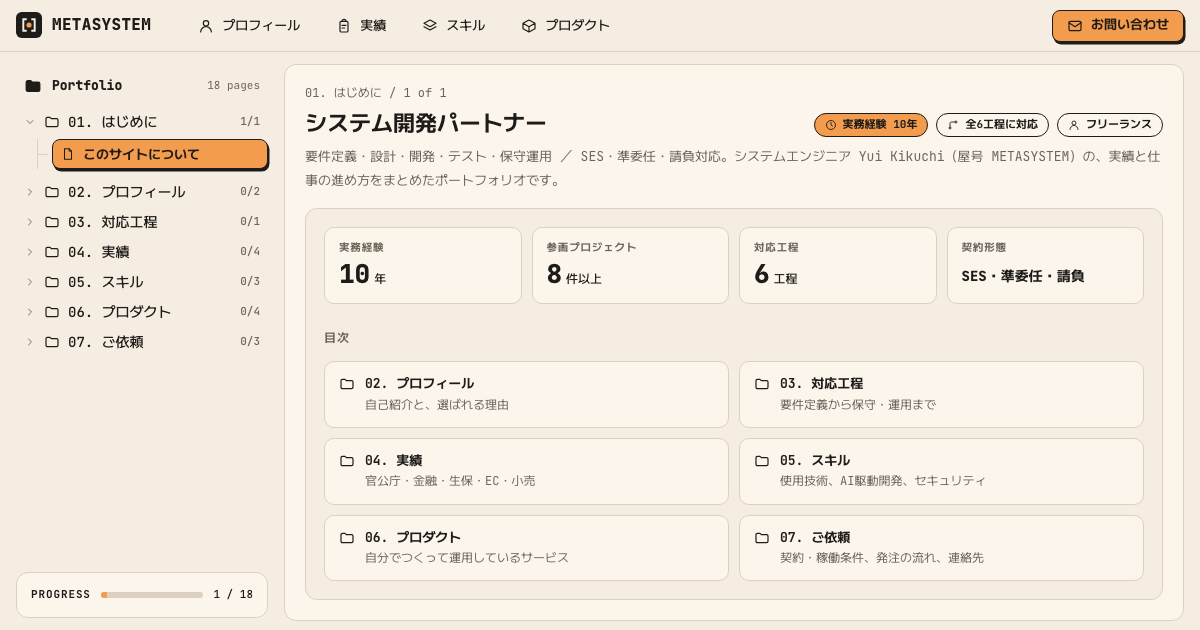
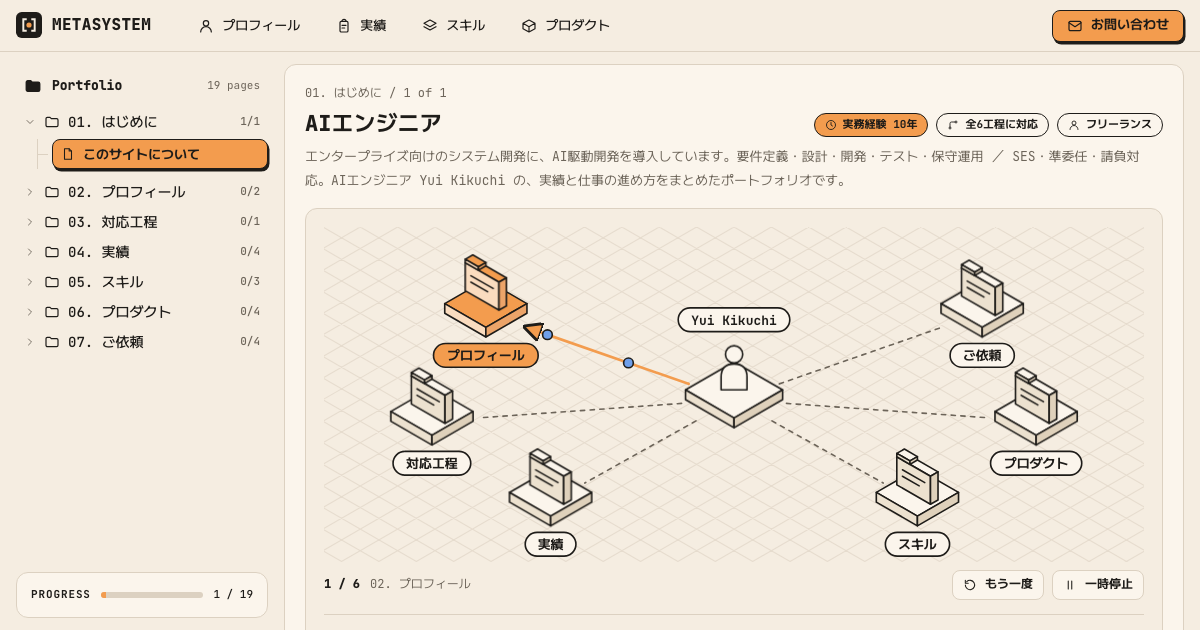
事業者情報のページを足し、トップを「AIエンジニア」に、参画プロジェクトを10件以上にする

diff --git a/index.html b/index.html
@@ -3,8 +3,8 @@
 <head>
 <meta charset="utf-8">
 <meta name="viewport" content="width=device-width, initial-scale=1, viewport-fit=cover">
-<title>METASYSTEM｜システム開発パートナー Yui Kikuchi の実績ポートフォリオ</title>
-<meta name="description" content="システムエンジニア Yui Kikuchi（屋号 METASYSTEM）の実績ポートフォリオ。実務経験10年、要件定義・設計・開発・テスト・保守運用まで対応。SES・準委任・請負。官公庁・金融・EC・小売の実績と、自作プロダクト（WORKURU・ペットナビ・smaholic・じゃ〜なる）をまとめています。">
+<title>METASYSTEM｜AIエンジニア Yui Kikuchi の実績ポートフォリオ</title>
+<meta name="description" content="AIエンジニア Yui Kikuchi（屋号 METASYSTEM）の実績ポートフォリオ。エンタープライズ向けのシステム開発に AI駆動開発を導入。実務経験10年、要件定義・設計・開発・テスト・保守運用まで対応。SES・準委任・請負。官公庁・金融・EC・小売の実績と、自作プロダクト（WORKURU・ペットナビ・smaholic・じゃ〜なる）をまとめています。">
 <meta name="author" content="Yui Kikuchi">
 <meta name="theme-color" content="#f5ede1">
 <link rel="canonical" href="https://yuikikuchi.github.io/">
@@ -12,8 +12,8 @@
 <meta property="og:type" content="website">
 <meta property="og:url" content="https://yuikikuchi.github.io/">
 <meta property="og:site_name" content="METASYSTEM">
-<meta property="og:title" content="METASYSTEM｜システム開発パートナー">
-<meta property="og:description" content="実務経験10年のシステムエンジニアの実績ポートフォリオ。要件定義から保守運用まで、SES・準委任・請負に対応します。">
+<meta property="og:title" content="METASYSTEM｜AIエンジニア Yui Kikuchi">
+<meta property="og:description" content="エンタープライズ向けのシステム開発に、AI駆動開発を導入しています。実務経験10年、要件定義から保守運用まで、SES・準委任・請負に対応します。">
 <meta property="og:image" content="https://yuikikuchi.github.io/assets/img/og.png">
 <meta property="og:image:width" content="1200">
 <meta property="og:image:height" content="630">
@@ -35,7 +35,7 @@
   "@type": "ProfessionalService",
   "name": "METASYSTEM",
   "url": "https://yuikikuchi.github.io/",
-  "description": "システム開発パートナー。要件定義・設計・開発・テスト・保守運用に対応するシステムエンジニアの屋号。",
+  "description": "エンタープライズ向けのシステム開発に AI駆動開発を導入する、AIエンジニア Yui Kikuchi の屋号。要件定義・設計・開発・テスト・保守運用に対応。",
   "founder": { "@type": "Person", "name": "Yui Kikuchi", "jobTitle": "システムエンジニア", "sameAs": ["https://github.com/yuikikuchi"] }
 }
 </script>
@@ -99,7 +99,7 @@
 
   <!-- ───────── 左：フォルダのツリー ───────── -->
   <aside class="side" id="side">
-    <p class="side__head"><svg class="i i--fill"><use href="#i-folder"/></svg><b>Portfolio</b><span>18 pages</span></p>
+    <p class="side__head"><svg class="i i--fill"><use href="#i-folder"/></svg><b>Portfolio</b><span>19 pages</span></p>
     <nav aria-label="ページの一覧">
       <ul class="tree">
         <li class="dir is-open" data-dir="01">
@@ -153,11 +153,12 @@
             <li><a class="file" href="#terms"><svg class="i"><use href="#i-file"/></svg><span>契約形態・稼働条件</span></a></li>
             <li><a class="file" href="#flow"><svg class="i"><use href="#i-file"/></svg><span>ご発注までの流れ</span></a></li>
             <li><a class="file" href="#contact"><svg class="i"><use href="#i-file"/></svg><span>お問い合わせ</span></a></li>
+            <li><a class="file" href="#business"><svg class="i"><use href="#i-file"/></svg><span>事業者情報</span></a></li>
           </ul>
         </li>
       </ul>
     </nav>
-    <p class="progress"><span>PROGRESS</span><i><i id="progBar"></i></i><b id="progNum">0 / 18</b></p>
+    <p class="progress"><span>PROGRESS</span><i><i id="progBar"></i></i><b id="progNum">0 / 19</b></p>
   </aside>
   <button class="shade" id="shade" type="button" tabindex="-1" aria-label="ページの一覧を閉じる"></button>
 
@@ -168,15 +169,15 @@
     <article class="page" id="about">
       <section class="lesson card">
         <p class="crumb"></p>
-        <h1 class="title">システム開発パートナー</h1>
+        <h1 class="title">AIエンジニア</h1>
         <ul class="chips"><li><svg class="i"><use href="#i-clock"/></svg>実務経験 10年</li><li><svg class="i"><use href="#i-route"/></svg>全6工程に対応</li><li><svg class="i"><use href="#i-user"/></svg>フリーランス</li></ul>
-        <p class="lead">要件定義・設計・開発・テスト・保守運用 ／ SES・準委任・請負対応。システムエンジニア Yui Kikuchi（屋号 METASYSTEM）の、実績と仕事の進め方をまとめたポートフォリオです。</p>
+        <p class="lead">エンタープライズ向けのシステム開発に、AI駆動開発を導入しています。要件定義・設計・開発・テスト・保守運用 ／ SES・準委任・請負対応。AIエンジニア Yui Kikuchi の、実績と仕事の進め方をまとめたポートフォリオです。</p>
 
         <div class="stage">
           <div class="viz" data-viz="about"></div>
           <ul class="stats">
             <li><span>実務経験</span><b>10<small>年</small></b></li>
-            <li><span>参画プロジェクト</span><b>8<small>件以上</small></b></li>
+            <li><span>参画プロジェクト</span><b>10<small>件以上</small></b></li>
             <li><span>対応工程</span><b>6<small>工程</small></b></li>
             <li><span>契約形態</span><b class="stats__text">SES・準委任・請負</b></li>
           </ul>
@@ -187,7 +188,7 @@
             <li><a href="#upstream"><svg class="i"><use href="#i-folder"/></svg><b>04. 実績</b><span>官公庁・金融・生保・EC・小売</span></a></li>
             <li><a href="#stack"><svg class="i"><use href="#i-folder"/></svg><b>05. スキル</b><span>使用技術、AI駆動開発、セキュリティ</span></a></li>
             <li><a href="#workuru"><svg class="i"><use href="#i-folder"/></svg><b>06. プロダクト</b><span>自分でつくって運用しているサービス</span></a></li>
-            <li><a href="#terms"><svg class="i"><use href="#i-folder"/></svg><b>07. ご依頼</b><span>契約・稼働条件、発注の流れ、連絡先</span></a></li>
+            <li><a href="#terms"><svg class="i"><use href="#i-folder"/></svg><b>07. ご依頼</b><span>契約・稼働条件、発注の流れ、連絡先、事業者情報</span></a></li>
           </ul>
         </div>
       </section>
@@ -199,8 +200,8 @@
           <div class="idea"><svg class="i"><use href="#i-idea"/></svg><div><small>KEY IDEA</small><p>要件定義から保守運用まで、一気通貫で対応できるのが強みです。</p></div></div>
         </section>
         <section class="card learn"><h2>このページでわかること</h2><ul>
-          <li>実務経験10年のシステムエンジニア</li>
-          <li>要件定義から保守運用まで対応</li>
+          <li>エンタープライズ向けに AI駆動開発を導入</li>
+          <li>実務経験10年、要件定義から保守運用まで対応</li>
           <li>SES・準委任・請負のどれでも</li>
         </ul></section>
       </aside>
@@ -211,14 +212,14 @@
       <section class="lesson card">
         <p class="crumb"></p>
         <h1 class="title">自己紹介</h1>
-        <ul class="chips"><li><svg class="i"><use href="#i-clock"/></svg>実務経験 10年</li><li><svg class="i"><use href="#i-doc"/></svg>8件以上に参画</li></ul>
+        <ul class="chips"><li><svg class="i"><use href="#i-clock"/></svg>実務経験 10年</li><li><svg class="i"><use href="#i-doc"/></svg>10件以上に参画</li></ul>
         <p class="lead">Yui Kikuchi ｜ システムエンジニア（フリーランス）｜ 屋号 METASYSTEM</p>
 
         <div class="stage">
           <div class="viz" data-viz="profile"></div>
           <ul class="stats stats--2">
             <li><span>Years of Experience</span><b>10<small>年</small></b><em>システム開発 実務経験年数</em></li>
-            <li><span>Projects Joined</span><b>8<small>件以上</small></b><em>参画プロジェクト数</em></li>
+            <li><span>Projects Joined</span><b>10<small>件以上</small></b><em>参画プロジェクト数</em></li>
           </ul>
           <p class="text">システム開発の実務経験<mark>10年</mark>。SIer 案件を中心に、要件定義から保守運用までを<mark>一気通貫</mark>で対応してきた実務経験があります。エンタープライズ向けの大規模基幹システムでも、<mark>品質・納期・報連相</mark>を徹底できる体制で稼働します。</p>
           <ul class="pills">
@@ -235,7 +236,7 @@
         </section>
         <section class="card learn"><h2>このページでわかること</h2><ul>
           <li>実務経験は10年</li>
-          <li>参画プロジェクトは8件以上</li>
+          <li>参画プロジェクトは10件以上</li>
           <li>大規模基幹システムにも対応</li>
         </ul></section>
       </aside>
@@ -857,10 +858,50 @@
       </aside>
     </article>
 
+    <article class="page" id="business">
+      <section class="lesson card">
+        <p class="crumb"></p>
+        <h1 class="title">事業者情報</h1>
+        <ul class="chips"><li><svg class="i"><use href="#i-user"/></svg>個人事業</li><li>屋号 METASYSTEM</li></ul>
+        <p class="lead">ご契約・お取引の際にご確認いただく、事業者の情報です。</p>
+
+        <div class="stage">
+          <div class="viz" data-viz="business"></div>
+          <dl class="spec">
+            <div><dt>屋号</dt><dd>METASYSTEM</dd></div>
+            <div><dt>代表者</dt><dd>Yui Kikuchi</dd></div>
+            <div><dt>事業内容</dt><dd>エンタープライズ向けのシステム開発への AI駆動開発の導入、システム開発の支援（要件定義・設計・開発・テスト・保守運用）、Web サービス・モバイルアプリの企画・開発・運営</dd></div>
+            <div><dt>運営サービス</dt><dd class="spec__links">
+              <a href="#workuru">WORKURU</a>
+              <a href="#petnavi">ペットナビ</a>
+              <a href="#smaholic">smaholic</a>
+              <a href="#journal">じゃ〜なる</a>
+            </dd></div>
+            <div><dt>所在地・電話番号</dt><dd>ご請求があれば、遅滞なくお知らせします</dd></div>
+            <div><dt>メール</dt><dd><a href="mailto:yui.kikuchi@yahoo.com">yui.kikuchi@yahoo.com</a></dd></div>
+            <div><dt>GitHub</dt><dd><a href="https://github.com/yuikikuchi" target="_blank" rel="noopener">github.com/yuikikuchi<svg class="i"><use href="#i-out"/></svg></a></dd></div>
+          </dl>
+        </div>
+      </section>
+      <aside class="panel">
+        <section class="card note">
+          <p class="note__top"><span>POINT</span><em class="tag">BUSINESS</em></p>
+          <h2>屋号 METASYSTEM で活動しています</h2>
+          <p>受託の開発と、自分のサービス（WORKURU ほか）の運営を、同じ屋号で行っています。</p>
+          <div class="idea"><svg class="i"><use href="#i-idea"/></svg><div><small>KEY IDEA</small><p>所在地・電話番号は、ご請求があれば遅滞なくお知らせします。</p></div></div>
+        </section>
+        <section class="card learn"><h2>このページでわかること</h2><ul>
+          <li>屋号と代表者</li>
+          <li>事業内容と運営サービス</li>
+          <li>連絡先（メール・GitHub）</li>
+        </ul></section>
+      </aside>
+    </article>
+
   </main>
 </div>
 
-<script src="assets/js/scenes.js?v=8" defer></script>
+<script src="assets/js/scenes.js?v=9" defer></script>
 <script src="assets/js/main.js?v=8" defer></script>
 </body>
 </html>

diff --git a/assets/js/scenes.js b/assets/js/scenes.js
@@ -198,9 +198,9 @@
       }
     },
 
-    /* 02 自己紹介：10段の階段（10年）と、8本の旗（参画プロジェクト） */
+    /* 02 自己紹介：10段の階段（10年）と、10本の旗（参画プロジェクト） */
     profile: {
-      h: 300, items: '.stats--2 > li', labels: ['実務経験 10年', '参画プロジェクト 8件以上'], title: '10段の階段で実務経験10年を、8本の旗で参画プロジェクト8件以上を表した図',
+      h: 300, items: '.stats--2 > li', labels: ['実務経験 10年', '参画プロジェクト 10件以上'], title: '10段の階段で実務経験10年を、10本の旗で参画プロジェクト10件以上を表した図',
       build(L) {
         const { at, P, g, cube, person, pill, flag } = L;
         const b0 = at(225, 250);
@@ -209,11 +209,12 @@
           g(`class="seq" style="--d:${(i * 0.08).toFixed(2)}s"${i === 9 ? ' data-hot="1"' : ''}`, cube(x - 0.55, y - 0.55, 0, 1.1, 1.1, h))).join('');
         const top = st[9];
         const [tx, ty] = P(top.x, top.y, top.h);
-        const flags = st.slice(1, 9).map(({ x, y, h }, k) => { const [fx, fy] = P(x, y, h); return g(`class="seq" style="--d:${(k * 0.12).toFixed(2)}s"`, flag(fx - 3, fy - 2)); }).join('');
+        // 旗は1段に1本。いちばん上の段は人が立っているので、旗を右へずらす
+        const flags = st.map(({ x, y, h }, k) => { const [fx, fy] = P(x, y, h); return g(`class="seq" style="--d:${(k * 0.1).toFixed(2)}s"`, flag(fx + (k === 9 ? 15 : -3), fy - 2)); }).join('');
         return g('data-pop="1"', blocks) + person([top.x, top.y], top.h) +
           g('data-in="2" data-hot="2" data-pop="2"', flags) +
           pill(tx, ty - 62, '10年', 'data-hot="1"') +
-          pill(235, 150, '8件以上', 'data-in="2" data-hot="2"');
+          pill(235, 150, '10件以上', 'data-in="2" data-hot="2"');
       }
     },
 
@@ -698,6 +699,36 @@
           g('data-only="2" data-hot="2"', win(300, 40, 160, 84, '', codeLines(312, 64, [70, 96, 52, 84, 60]))) +
           g('data-only="2"', pill(380, 146, 'github.com/yuikikuchi')) +
           under(Y, 'あなた') + under(M, 'Yui Kikuchi');
+      }
+    },
+
+    /* 07 事業者情報：真ん中の事務所（METASYSTEM）、左に代表者、右に運営サービス。表の行ごとに、対応する所が光る */
+    business: {
+      h: 300, items: '.spec > div', title: '屋号 METASYSTEM の事務所を中心に、代表者・事業内容・運営サービス・所在地・連絡先を、表の行ごとに表した図',
+      build(L) {
+        const { at, Sc, g, slab, building, person, modules, pill, under, seg, line, packets, mover, arc, spark, gear, miniCube, pin, lock, envMini, win, codeLines } = L;
+        const O = at(380, 175);
+        const Pn = at(165, 205);
+        const Sv = at(600, 205);
+        const sPO = seg(Pn, O, 1.8, 2.0);
+        const sOS = seg(O, Sv, 2.0, 1.8);
+        const [px, py] = Sc(Pn, 2.4);
+        const [sx, sy] = Sc(Sv);
+        const work = [[215, 'AI駆動開発の導入', spark(215, 82)], [380, 'システム開発の支援', gear(380, 80, 15)], [545, 'サービスの企画・運営', `<g transform="translate(545 80) scale(1.5)">${miniCube()}</g>`]]
+          .map(([x, s, icon], i) => `<g ${L.seq(i, 0.15)}>${icon}${pill(x, 40, s)}</g>`).join('');
+        const mail = arc([30, 92], [px - 8, py - 6], 40);
+        return line(sPO, 'data-hot="2"', 'link link--soft') +
+          line(sOS, 'data-hot="4"', 'link link--soft') + g('data-only="4"', packets(sOS, 3, 1.5)) +
+          g('data-hot="1 3 5"', slab(O, 3.0) + building(O, 2.0, 2.0, 2.4)) +
+          g('data-hot="2 6 7"', slab(Pn) + person(Pn)) +
+          g('data-hot="4"', slab(Sv) + g('data-pop="4"', modules(Sv))) +
+          g('data-only="3" data-pop="3"', work) +
+          g('data-only="4"', pill(sx, sy - 92, 'WORKURU ほか 4つ')) +
+          g('data-only="5" data-pop="5"', pin(380, 80) + lock(408, 88)) + g('data-only="5"', pill(380, 40, 'ご請求があればお知らせします')) +
+          g('data-only="6"', mover(mail, envMini(), 2.0) + mover(mail, envMini(), 2.0, 1.0) + pill(205, 40, 'yui.kikuchi@yahoo.com')) +
+          g('data-only="7" data-hot="7" data-pop="7"', win(430, 34, 140, 76, '', codeLines(442, 58, [62, 88, 46, 74, 54]))) +
+          g('data-only="7"', pill(500, 132, 'github.com/yuikikuchi')) +
+          under(O, 'METASYSTEM', 'data-hot="1"', 3.0) + under(Pn, 'Yui Kikuchi', 'data-hot="2"') + under(Sv, '運営サービス', 'data-hot="4"');
       }
     }
   };
